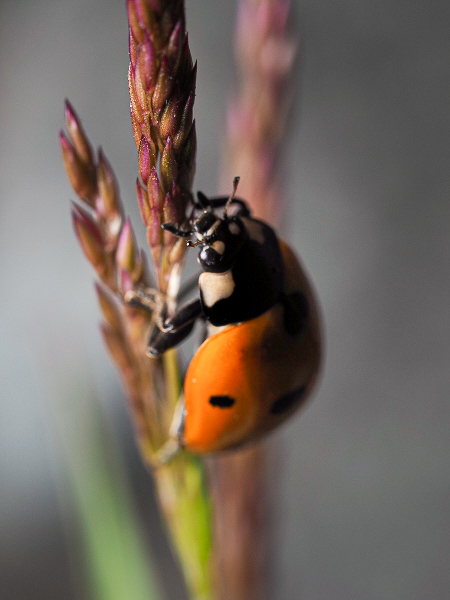
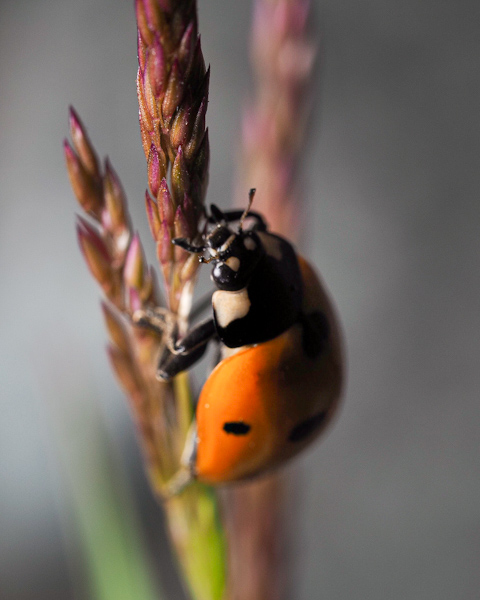
two more pics, changed header ladybird

diff --git a/_posts/2021-02-23-newcastle-ladybirds.md b/_posts/2021-02-23-newcastle-ladybirds.md
@@ -6,7 +6,7 @@ header:
   teaser: /assets/images/ladybirds/finger-th.jpg
   overlay_color: "#000"
   overlay_filter: "0.3"
-  overlay_image: /assets/images/ladybirds/void.jpg
+  overlay_image: /assets/images/ladybirds/pair.jpg
 categories:
   - Photography
 tags:
@@ -42,6 +42,14 @@ gallery:
     image_path: /assets/images/ladybirds/void-th.jpg
     alt: "Looking into the void."
     title: "Looking into the void."
+  - url: /assets/images/ladybirds/pair.jpg
+    image_path: /assets/images/ladybirds/pair-th.jpg
+    alt: "Ladybird interaction."
+    title: "Ladybird interaction."
+  - url: /assets/images/ladybirds/back.jpg
+    image_path: /assets/images/ladybirds/back-th.jpg
+    alt: "A slightly less common angle."
+    title: "A slightly less common angle."
 ---
 
 During May, June and July, lots of ladybirds show up and mate around town. These pics were shot just next to Central Station, on a deserted parking lot the beetles decided to call home.
